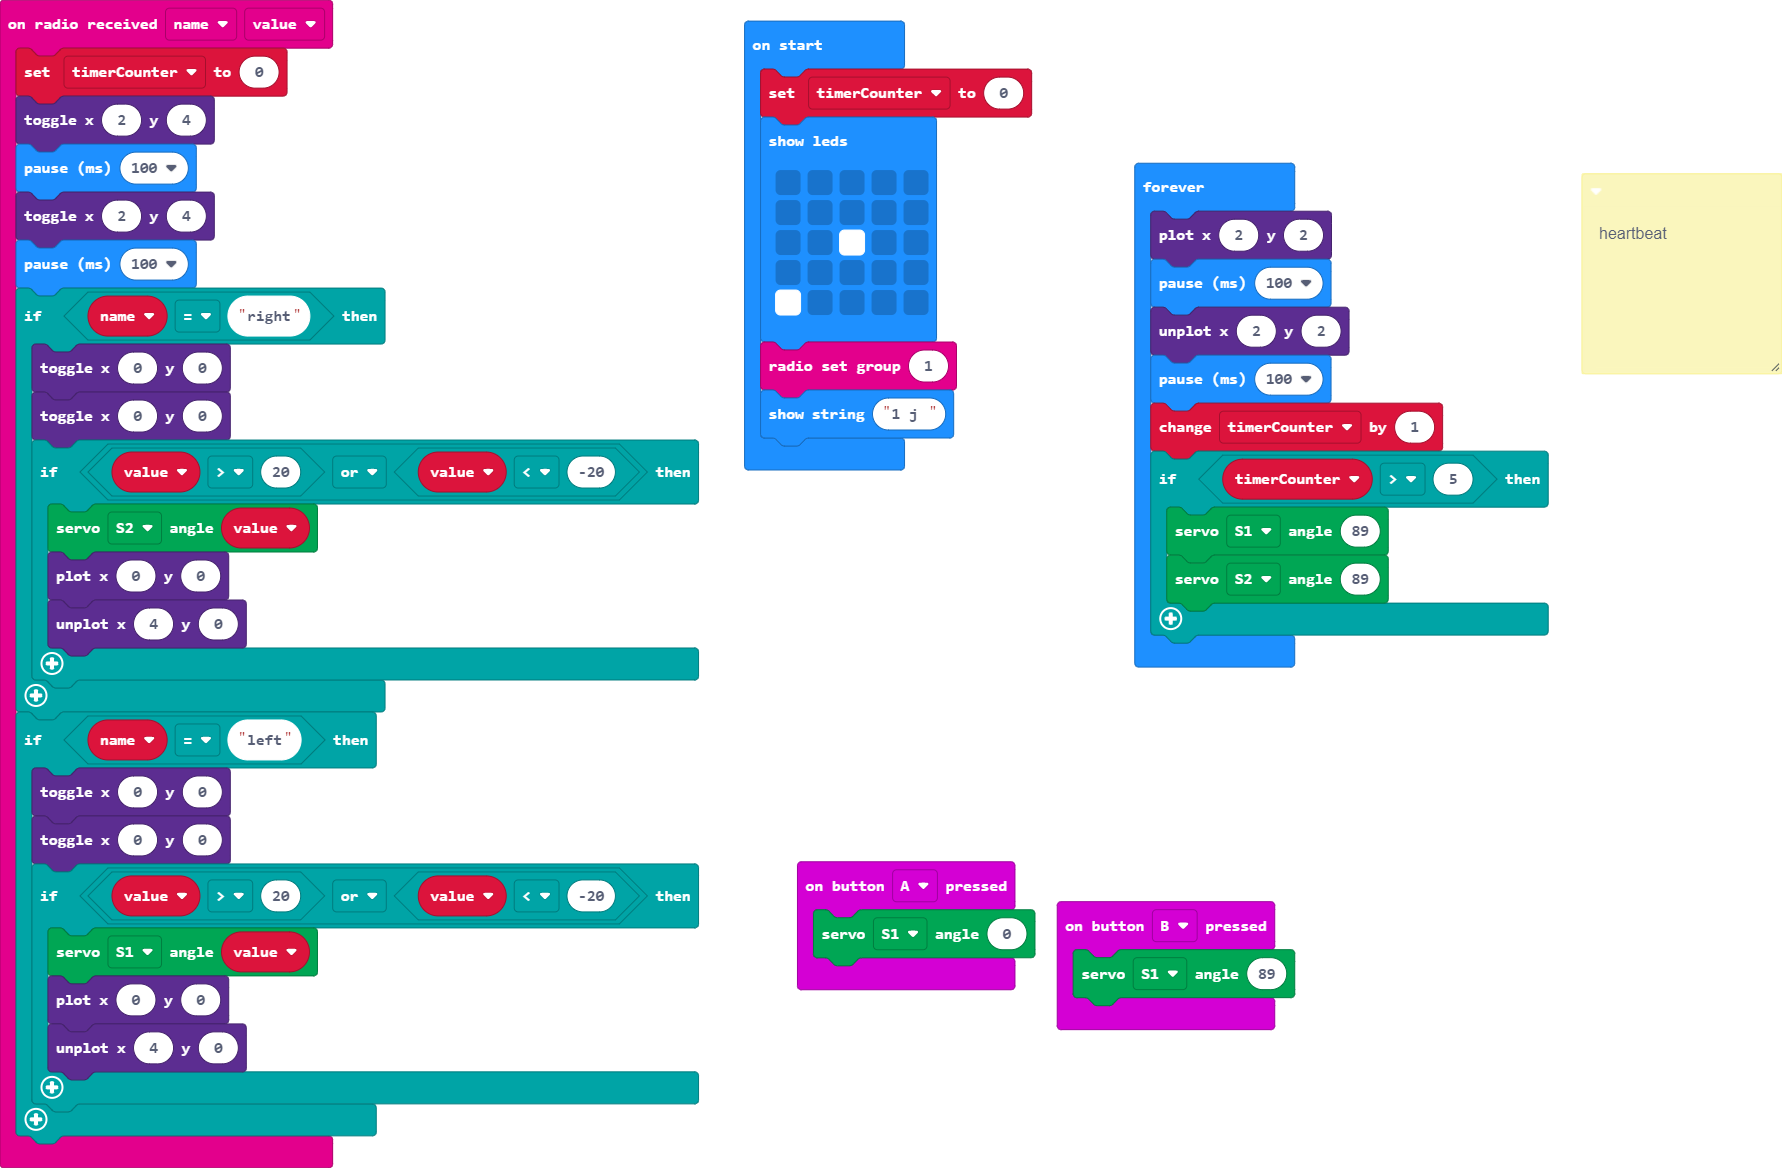
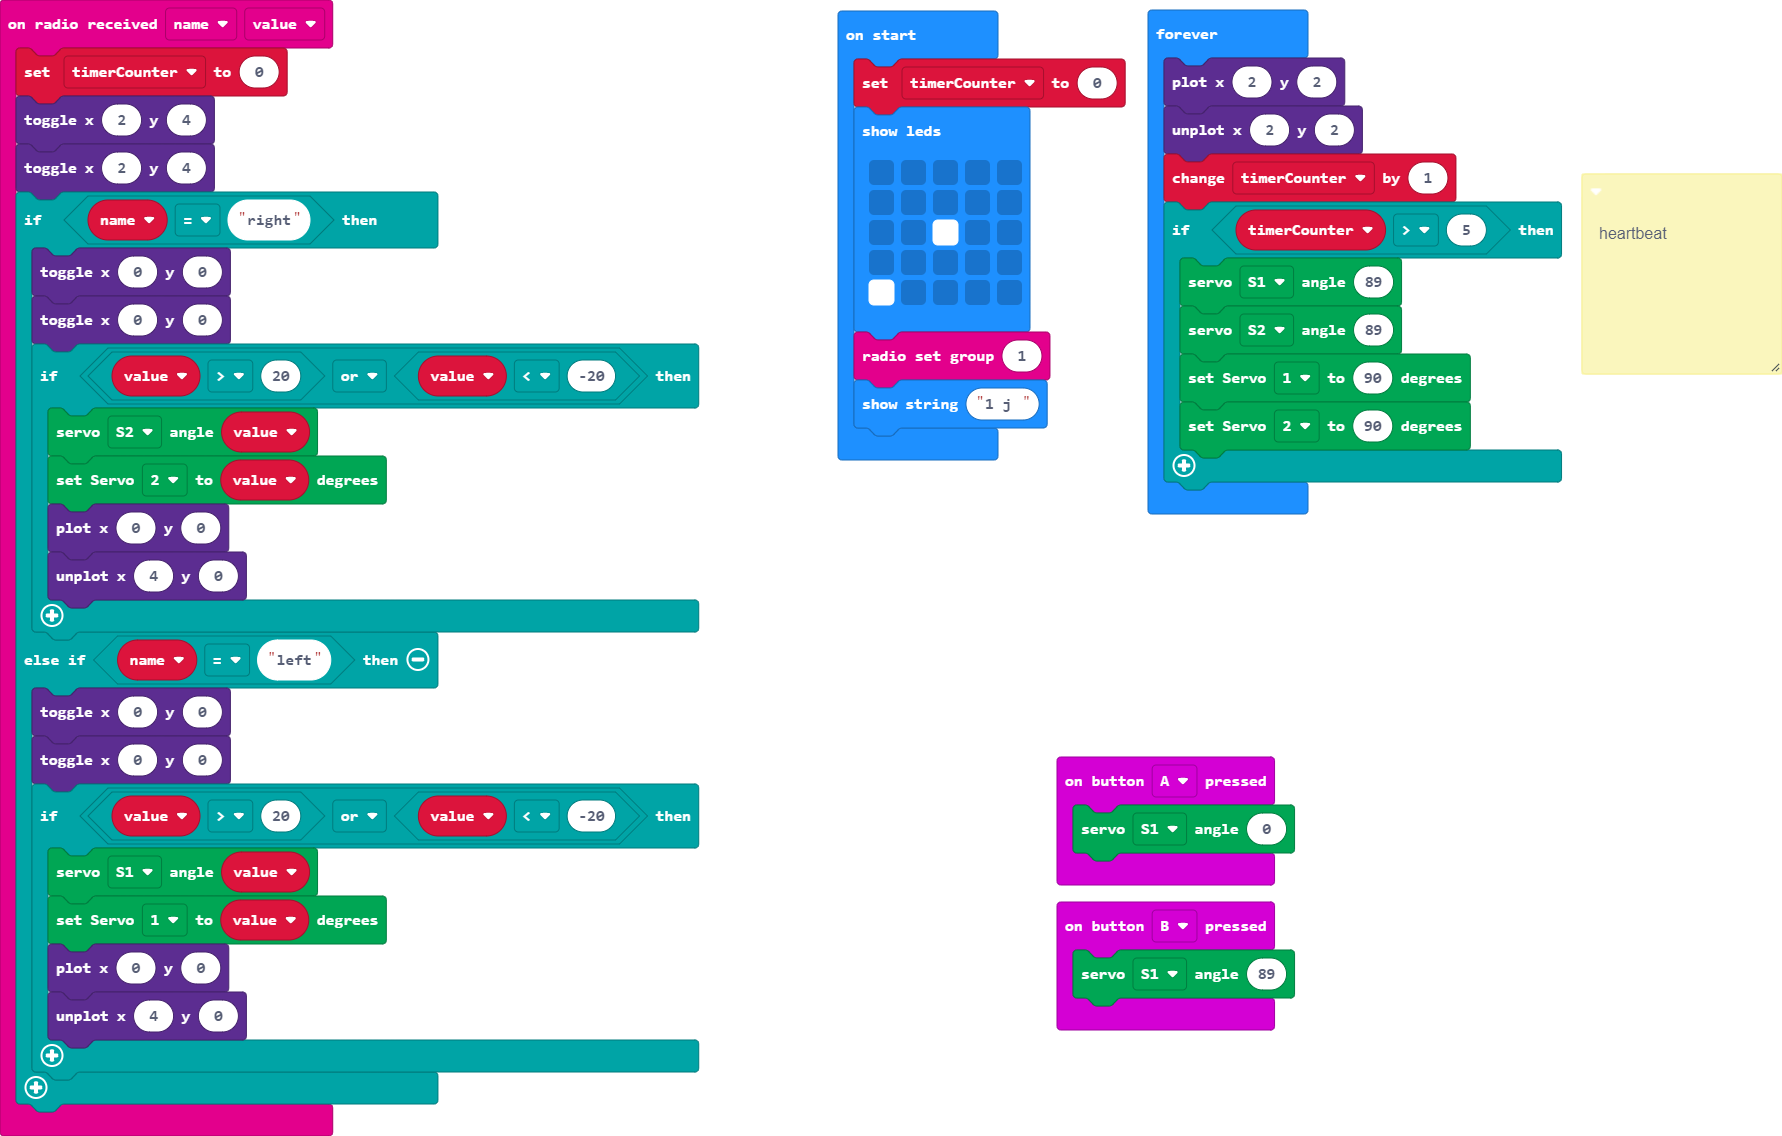
Update main.blocks, main.ts

diff --git a/main.ts b/main.ts
@@ -1,23 +1,22 @@
 radio.onReceivedValueDeprecated(function (name, value) {
     timerCounter = 0
     led.toggle(2, 4)
-    basic.pause(100)
     led.toggle(2, 4)
-    basic.pause(100)
     if (name == "right") {
         led.toggle(0, 0)
         led.toggle(0, 0)
         if (value > 20 || value < -20) {
             DFRobotMaqueenPlus.servoRun(Servos.S2, value)
+            Kitronik_Robotics_Board.servoWrite(Kitronik_Robotics_Board.Servos.Servo2, value)
             led.plot(0, 0)
             led.unplot(4, 0)
         }
-    }
-    if (name == "left") {
+    } else if (name == "left") {
         led.toggle(0, 0)
         led.toggle(0, 0)
         if (value > 20 || value < -20) {
             DFRobotMaqueenPlus.servoRun(Servos.S1, value)
+            Kitronik_Robotics_Board.servoWrite(Kitronik_Robotics_Board.Servos.Servo1, value)
             led.plot(0, 0)
             led.unplot(4, 0)
         }
@@ -45,12 +44,12 @@ basic.showString("1 j ")
  */
 basic.forever(function () {
     led.plot(2, 2)
-    basic.pause(100)
     led.unplot(2, 2)
-    basic.pause(100)
     timerCounter += 1
     if (timerCounter > 5) {
         DFRobotMaqueenPlus.servoRun(Servos.S1, 89)
         DFRobotMaqueenPlus.servoRun(Servos.S2, 89)
+        Kitronik_Robotics_Board.servoWrite(Kitronik_Robotics_Board.Servos.Servo1, 90)
+        Kitronik_Robotics_Board.servoWrite(Kitronik_Robotics_Board.Servos.Servo2, 90)
     }
 })
